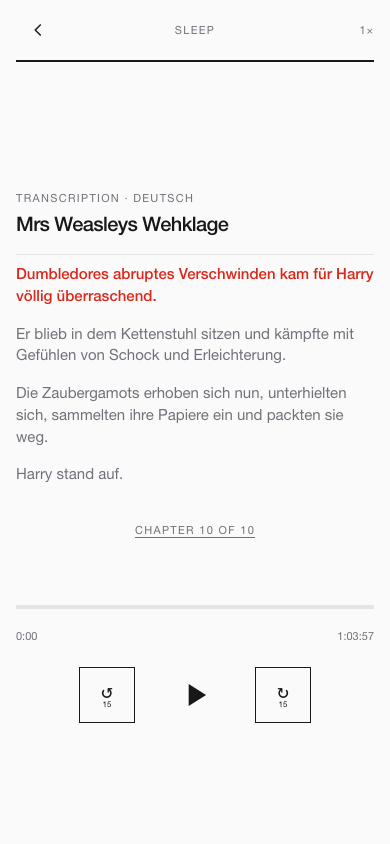
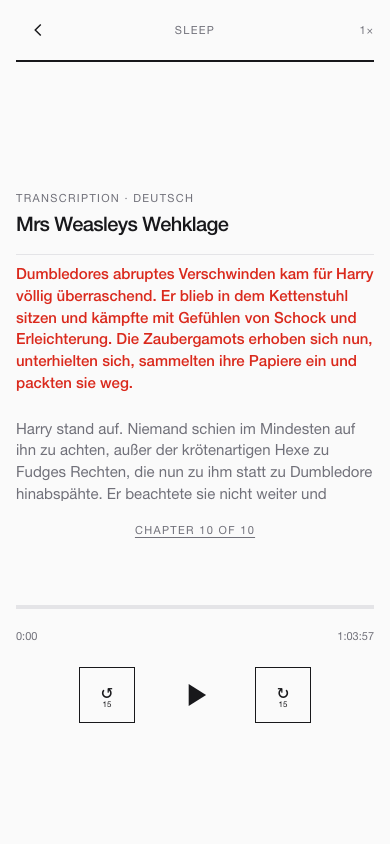
Group transcript into sentence blocks

Changed region(s): [[0.0308, 0.3389, 0.9538, 0.6161]]

diff --git a/clam-web/src/pages/Play.tsx b/clam-web/src/pages/Play.tsx
@@ -1,7 +1,7 @@
 import { useEffect, useRef, useState } from 'react'
 import type { Book as BookType } from '../types'
 import { chapterFor, clock, savedProgress } from '../lib/progress'
-import { cueAt, loadTranscript, type Transcript } from '../lib/subtitles'
+import { cueAt, groupCues, loadTranscript, type Transcript } from '../lib/subtitles'
 import { usePlayer } from '../player'
 import { Cover } from '../components/Cover'
 import { Sheet } from '../components/Sheet'
@@ -24,7 +24,7 @@ export function Play({ book, search }: PlayProps) {
   const [drag, setDrag] = useState<number | null>(null)
   const seekTimer = useRef<number | null>(null)
   const dialogList = useRef<HTMLDivElement>(null)
-  const currentCue = useRef<HTMLButtonElement>(null)
+  const currentBlock = useRef<HTMLButtonElement>(null)
 
   const chapterParam = Number(search.get('chapter'))
   const autoplay = search.get('autoplay') === '1'
@@ -56,6 +56,12 @@ export function Play({ book, search }: PlayProps) {
   const percent = duration ? Math.min(100, (shown / duration) * 100) : 0
   const chapterLine = book.chapters.length ? `Chapter ${chapterIndex + 1} of ${book.chapters.length}` : book.title
   const currentCueIndex = transcript ? cueAt(transcript.cues, current) : -1
+  const blocks = transcript ? groupCues(transcript.cues) : []
+  let currentBlockIndex = -1
+  for (let i = 0; i < blocks.length; i += 1) {
+    if (blocks[i].firstCue <= currentCueIndex) currentBlockIndex = i
+    else break
+  }
 
   useEffect(() => {
     setTranscript(null)
@@ -74,8 +80,8 @@ export function Play({ book, search }: PlayProps) {
 
   useEffect(() => {
     if (!showDescription || !transcript) return
-    currentCue.current?.scrollIntoView({ block: 'center' })
-  }, [showDescription, transcript, currentCueIndex])
+    currentBlock.current?.scrollIntoView({ block: 'center' })
+  }, [showDescription, transcript, currentBlockIndex])
   const speedLabel = player.speed === 1 ? '1×' : `${player.speed}×`
   const sleepSeconds = Math.max(0, Math.ceil(player.sleepRemaining || 0))
   const sleepLabel = !player.sleep
@@ -150,16 +156,16 @@ export function Play({ book, search }: PlayProps) {
                 <p className="micro">Transcription · Deutsch</p>
                 <h1 className="mt-2 text-[clamp(20px,5vw,26px)] font-medium leading-[1.06] tracking-[-0.03em]">{chapter?.title || book.title}</h1>
                 <div className="transcript mt-5">
-                  {transcript.cues.map((cue, index) => (
+                  {blocks.map((block, index) => (
                     <button
-                      key={`${cue.start}-${index}`}
-                      ref={index === currentCueIndex ? currentCue : undefined}
+                      key={`${block.start}-${index}`}
+                      ref={index === currentBlockIndex ? currentBlock : undefined}
                       type="button"
-                      className={`transcript__cue${index === currentCueIndex ? ' is-current' : ''}`}
-                      aria-current={index === currentCueIndex ? 'true' : undefined}
-                      onClick={() => player.seekTo(cue.start)}
+                      className={`transcript__block${index === currentBlockIndex ? ' is-current' : ''}`}
+                      aria-current={index === currentBlockIndex ? 'true' : undefined}
+                      onClick={() => player.seekTo(block.start)}
                     >
-                      {cue.text}
+                      {block.text}
                     </button>
                   ))}
                 </div>

diff --git a/clam-web/src/lib/subtitles.ts b/clam-web/src/lib/subtitles.ts
@@ -60,3 +60,47 @@ export function cueAt(cues: SubtitleCue[], time: number): number {
   }
   return found
 }
+
+
+export interface TranscriptBlock {
+  start: number
+  end: number
+  text: string
+  firstCue: number
+  lastCue: number
+}
+
+/**
+ * Audio transcripts read badly as one sentence per row. Keep the sentence
+ * timings for seeking, but render two or three sentences as one block.
+ */
+export function groupCues(cues: SubtitleCue[]): TranscriptBlock[] {
+  if (!cues.length) return []
+  const sizes: number[] = []
+  let left = cues.length
+  let cursor = 0
+  while (left > 0) {
+    let size = Math.min(3, left)
+    if (left === 4) size = 2
+    if (left > 3) {
+      const chars = cues.slice(cursor, cursor + 3).reduce((sum, cue) => sum + cue.text.length, 0)
+      if (chars > 650) size = 2
+    }
+    sizes.push(size)
+    left -= size
+    cursor += size
+  }
+  let cueIndex = 0
+  return sizes.map((size) => {
+    const slice = cues.slice(cueIndex, cueIndex + size)
+    const block: TranscriptBlock = {
+      start: slice[0].start,
+      end: slice[slice.length - 1].end,
+      text: slice.map((cue) => cue.text).join(' '),
+      firstCue: cueIndex,
+      lastCue: cueIndex + size - 1,
+    }
+    cueIndex += size
+    return block
+  })
+}

diff --git a/clam-web/src/styles.css b/clam-web/src/styles.css
@@ -678,7 +678,7 @@
     border-top: 1px solid var(--hair);
   }
 
-  .transcript__cue {
+  .transcript__block {
     display: block;
     width: 100%;
     padding: 8px 0;
@@ -690,7 +690,11 @@
     text-align: left;
   }
 
-  .transcript__cue.is-current {
+  .transcript__block + .transcript__block {
+    margin-top: 8px;
+  }
+
+  .transcript__block.is-current {
     color: var(--accent);
     font-weight: 500;
   }

diff --git a/clam-web/README.md b/clam-web/README.md
@@ -202,6 +202,10 @@ The generator aligns EPUB tokens to Whisper word timestamps, then uses the
 matched first/last word of each sentence as its cue. It does not display the
 Whisper text. Tiny/base ASR is only a clock; the EPUB is the transcript.
 
+The UI keeps those sentence anchors but renders two or three sentences per
+block (long three-sentence groups fall back to two). The current block is the
+accent; tapping a block seeks to its first sentence.
+
 In the Play screen, tapping the cover opens the transcript when the current
 chapter has a `subtitleUrl`. If it does not, the existing book description
 placeholder is shown. Cues are chapter-relative so they work with the continuous

diff --git a/clam-web/ui/README.md b/clam-web/ui/README.md
@@ -25,5 +25,5 @@ Sleep fade and Media Session are behaviour-only captures: the fade is the last
 metadata, position and previous/next actions from the same player state.
 
 `transcript-390-after.png` is HP5 chapter 10 with EPUB text and an ASR-derived
-timeline; `transcript-fallback-390-after.png` is a chapter without a subtitle
+timeline, grouped into 2–3 sentence blocks; `transcript-fallback-390-after.png` is a chapter without a subtitle
 file, showing the normal book-description placeholder.

diff --git a/UI.md b/UI.md
@@ -1,0 +1,6 @@
+
+Transcript rendering groups the sentence cues into two- or three-sentence
+blocks. Sentence timing is retained in the data; the block is the reading unit
+and seeks to its first sentence. A block over roughly 650 characters is kept to
+two sentences; the rest are three, so the pane does not become single-sentence
+rows.
